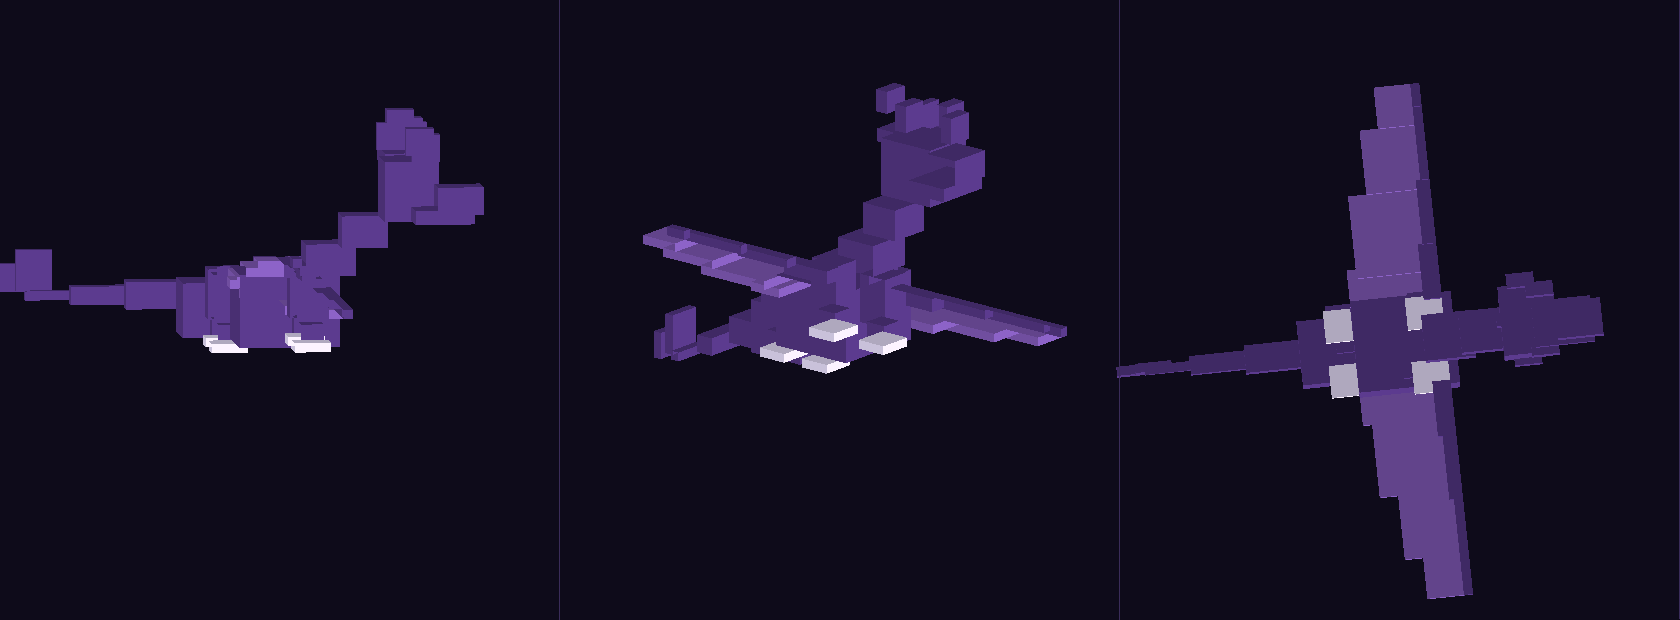
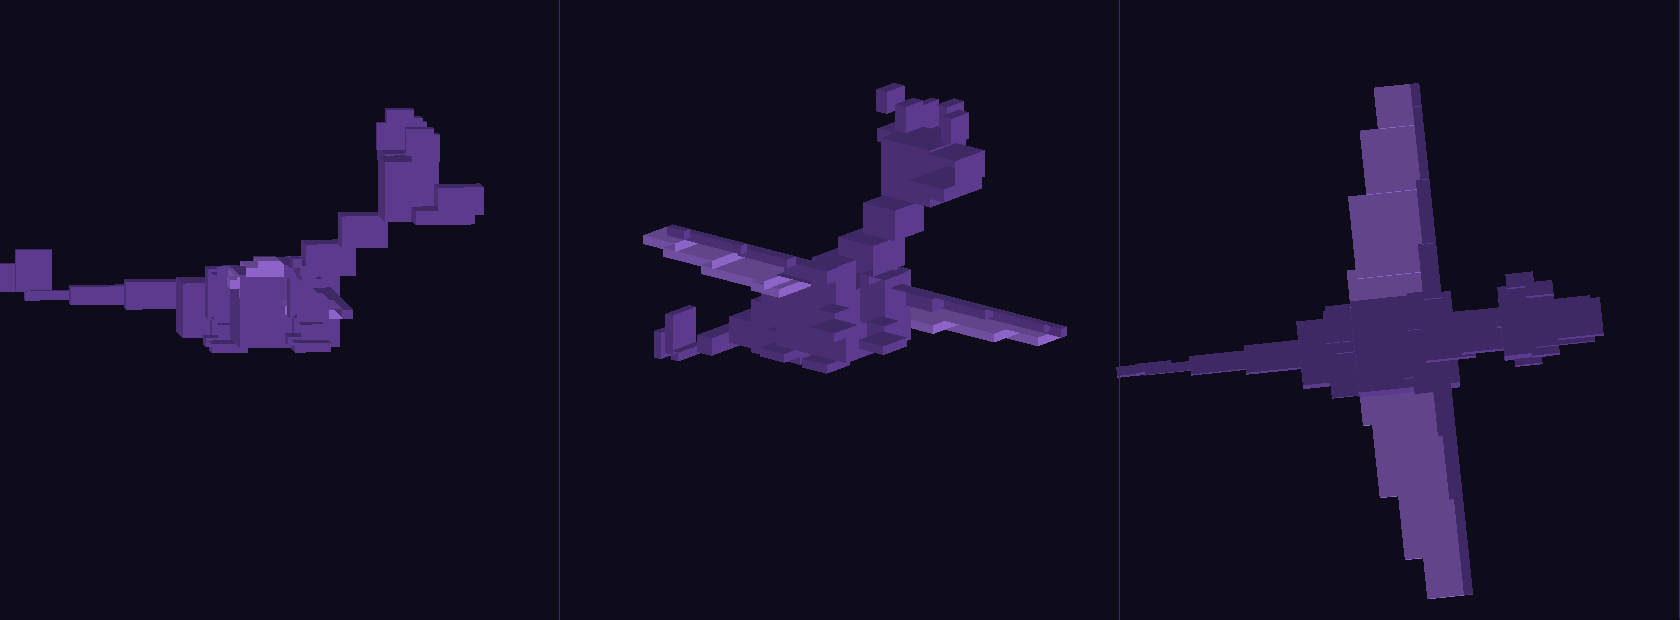
Docs: alpha.8 GeckoLib requirement, Loom 1.10.5 toolchain, verification §0e

diff --git a/README.md b/README.md
@@ -24,14 +24,22 @@ Assets:   48 generated textures · 65 block/item models · 45 data files
 
 ## Download & play
 
-1. Download **[aetherius-1.0.0-alpha.6.jar](https://github.com/Antoniscool123/Fabric-mod/releases/download/v1.0.0-alpha.6/aetherius-1.0.0-alpha.6.jar)**
-   (plus [`SHA256SUMS.txt`](https://github.com/Antoniscool123/Fabric-mod/releases/download/v1.0.0-alpha.6/SHA256SUMS.txt)).
+1. Download **[aetherius-1.0.0-alpha.8.jar](https://github.com/Antoniscool123/Fabric-mod/releases/download/v1.0.0-alpha.8/aetherius-1.0.0-alpha.8.jar)**
+   (plus [`SHA256SUMS.txt`](https://github.com/Antoniscool123/Fabric-mod/releases/download/v1.0.0-alpha.8/SHA256SUMS.txt)).
 2. Install **Fabric Loader 0.15.11+** for Minecraft **1.20.1**.
-3. Drop the jar **and** [Fabric API 0.92.2+1.20.1](https://modrinth.com/mod/fabric-api) into `.minecraft/mods`.
+3. Drop the jar, [Fabric API 0.92.2+1.20.1](https://modrinth.com/mod/fabric-api) **and**
+   [GeckoLib 4.8.4+1.20.1](https://modrinth.com/mod/geckolib/versions?g=1.20.1&loader=fabric)
+   into `.minecraft/mods`.
 4. Launch, create a world, and press **K** to open the Chronicle.
 
+   > **GeckoLib is required now.** From `alpha.8` the Nox'Thal model and its animations are
+   > GeckoLib assets (`assets/aetherius/geo/entity/nox_thal.geo.json` +
+   > `animations/entity/nox_thal.animation.json`), so the game refuses to load without it.
+   > The exact file that was used for testing is
+   > `geckolib-fabric-1.20.1-4.8.4.jar`; any 4.8.x for 1.20.1 works (`depends` says `>=4.8.0`).
+
 The jar is produced by GitHub Actions (`.github/workflows/build.yml`) on every tag:
-JDK 17 → Gradle 8.6 → Loom 1.5.8 → `compileJava` + `build` → attached to the release.
+JDK 17 → Gradle 8.14 → Loom 1.10.5 → `compileJava` + `build` → attached to the release.
 
 > **Alpha caveat:** the mod launches and loads a world on Fabric 1.20.1 (log in
 > `docs/VERIFICATION.md` §0b/§0c), but the story has not been played end-to-end yet.
@@ -57,7 +65,7 @@ JDK 17 → Gradle 8.6 → Loom 1.5.8 → `compileJava` + `build` → attached to
 
 ### Optional companion mods
 
-Aetherius is self-sufficient: it needs **Fabric API only**. These are optional quality-of-life
+Aetherius needs **Fabric API and GeckoLib only**. These are optional quality-of-life
 additions — nothing breaks if you skip them, and none of them are required for any feature.
 
 | Mod | Why you might want it |
@@ -97,7 +105,7 @@ Details and version pins: [`docs/OPTIONAL_MODS.md`](docs/OPTIONAL_MODS.md).
 | Registries, mixins, networking, commands | implemented |
 | Datapack content (dimension, biomes, loot, recipes, tags) | implemented |
 | Assets (textures, models, lang) | generated / placeholder-quality; audio is vanilla |
-| Compilation & packaging | **verified in CI** — JDK 17 / Gradle 8.6 / Loom 1.5.8, `compileJava` + `build` green, jar released |
+| Compilation & packaging | **verified in CI** — JDK 17 / Gradle 8.14 / Loom 1.10.5, `compileJava` + `build` green, jar released |
 | Runtime (launch) | **verified** — client boots, all 4 mixins apply, `[Aetherius] Initialised in 205 ms` |
 | Runtime (world load) | first attempt crashed on a biome JSON bug (fixed in `alpha.4`, see `docs/VERIFICATION.md` §0b) |
 | Gameplay balance | **not yet verified** |
@@ -110,23 +118,23 @@ not cover.
 
 ## Install & build
 
-Requirements: **JDK 17**, Gradle 8.6+ (Loom 1.5 rejects older Gradle), and the Fabric
+Requirements: **JDK 17**, Gradle 8.14+ (Loom 1.10 rejects older Gradle), and the Fabric
 toolchain that Loom downloads.
 
 ```bash
 # one-time: the wrapper JAR is a binary and is not committed
-gradle wrapper --gradle-version 8.6
+gradle wrapper --gradle-version 8.14
 
 ./gradlew build          # jar lands in build/libs/aetherius-1.0.0-alpha.jar
 ./gradlew runClient      # dev client
 ./gradlew runServer      # dev server
 ```
 
-Then drop the jar in `.minecraft/mods` alongside **Fabric Loader 0.15.11+** and
-**Fabric API 0.92.2+1.20.1**.
+Then drop the jar in `.minecraft/mods` alongside **Fabric Loader 0.15.11+**,
+**Fabric API 0.92.2+1.20.1** and **GeckoLib 4.8.4+1.20.1**.
 
 Gradle properties (`gradle.properties`) pin MC 1.20.1, Yarn `1.20.1+build.10`,
-Loader `0.15.11`, Fabric API `0.92.2+1.20.1`, Java 17, group `com.aetherius`.
+Loader `0.15.11`, Fabric API `0.92.2+1.20.1`, GeckoLib `4.8.4`, Java 17, group `com.aetherius`.
 
 ## The story in one paragraph
 
@@ -315,7 +323,7 @@ The asset pipeline is pure Python (no Pillow, no external downloads):
 | `tools/check_chronicle.py` | quest flags, objective classes, rune constants resolve |
 | `tools/check_lang.py` | translation keys used in Java exist in `en_us.json` |
 | `tools/check_data.py` | biome/dimension/model/recipe JSON shapes — encodes the bugs found at first launch |
-| `tools/preview_model.py` | rasterises the Nox'Thal cuboids to `docs/img/nox_thal_model.png` — catches broken pivots without launching the game |
+| `tools/preview_model.py` | rasterises the GeckoLib `nox_thal.geo.json` (and any of its animations) to `docs/img/nox_thal_model.png` — catches broken pivots without launching the game |
 
 Run them all:
 

diff --git a/docs/VERIFICATION.md b/docs/VERIFICATION.md
@@ -10,10 +10,10 @@ This file records exactly what is checked, how, and what remains unverified.
 |---|---|
 | Workflow | `.github/workflows/build.yml` |
 | JDK | Temurin 17 |
-| Gradle | 8.6 (Loom 1.5 requires ≥ 8.3) |
+| Gradle | 8.14 (Loom 1.10 requires ≥ 8.11) |
 | Loom / Yarn | 1.5.8 / 1.20.1+build.10 |
 | Tasks | `compileJava` → `build` (remapJar, sourcesJar) |
-| Result | green; `aetherius-1.0.0-alpha.6.jar` + `-sources.jar` + `SHA256SUMS.txt` on the release |
+| Result | green; `aetherius-1.0.0-alpha.8.jar` + `-sources.jar` + `SHA256SUMS.txt` on the release |
 | Errors left | 0 (`-Xmaxerrs 500`, so nothing is hidden behind the 100-error default) |
 
 The compile run also regenerates every asset and datapack file and re-runs the static
@@ -124,6 +124,51 @@ brow, jaw, snout, crest and swept horns, four-bone wings with four membrane pane
 a three-segment tail with a vertical fin, and four two-bone legs that land exactly on the y = 24
 ground plane. Renderer scale is now 1.0 (the model is authored at true size), shadow radius 2.2.
 
+## 0e. `1.0.0-alpha.8` — GeckoLib migration and the Loom trap
+
+`alpha.7` fixed the codec crash and **compiled green in CI**, so the first attempt at the GeckoLib
+migration (`5a58c33`) was expected to be a compile-only change. It failed with a misleading error:
+
+```
+ShatteredSkyChunkGenerator.java:41: error: ShatteredSkyChunkGenerator is not abstract and does not
+override abstract method getColumnSample(int,int,HeightLimitView,NoiseConfig) in ChunkGenerator
+```
+
+The method was in fact implemented with exactly the signature `javap` reports for the mapped
+Minecraft jar, so the message was collateral. Reading the whole Gradle log (not just `error:` lines)
+gave the real cause:
+
+```
+Caused by: java.lang.IllegalStateException:
+  Mod was built with a newer version of Loom (1.10.5), you are using Loom (1.5.8)
+```
+
+GeckoLib 4.8.4 is published with Loom 1.10.5, and Loom refuses to remap a mod built with a **newer**
+Loom than the project's own. With the GeckoLib jar unreachable, Loom left the whole
+`modImplementation` classpath half-resolved and javac reported a bogus abstract-method error.
+
+Fix: `fabric-loom` `1.5-SNAPSHOT` → **`1.10.5`**, Gradle **8.14** (wrapper, CI and README), and the
+Cloudsmith repository restricted with `exclusiveContent { filter { includeGroup
+'software.bernie.geckolib' } }` so it can never serve a Minecraft/mapping artifact.
+
+CI after the bump (`97cd52f`): `compileJava` exit 0, jar assembled, jar gate verified, checksums
+written — **the first green build that contains GeckoLib code**.
+
+> **Lesson recorded:** a failure whose message points at the *last* good file is usually a
+> dependency-resolution failure. `grep "Caused by"` on the full log beats trusting the first
+> `error:` line.
+
+### What is still unverified in alpha.8
+
+GeckoLib compiles, but nothing has *run* yet:
+
+- `getTick(Object)`, the `AnimationController` transition length and the `RawAnimation` names are
+  compile-checked only; a wrong animation id would silently play nothing.
+- The `.geo.json` is verified by `tools/preview_model.py` (bones, pivots, silhouette, wing
+  symmetry) and by `tools/check_data.py` (every animated bone exists in the model), not by the game.
+- The `attack` triggerable animation is wired to the cosmic-breath attack; whether it fires and
+  blends back into flight was not observed.
+
 ## 1. What is verified (mechanically)
 
 | Check | Tool | Result |
@@ -169,7 +214,7 @@ When you do get a toolchain, run in this order and fix in this order — it fron
 failures that cascade:
 
 ```bash
-gradle wrapper --gradle-version 8.6   # binary wrapper JAR is not committed
+gradle wrapper --gradle-version 8.14   # binary wrapper JAR is not committed
 ./gradlew compileJava 2>&1 | tee build.log
 ```
 

diff --git a/CHANGELOG.md b/CHANGELOG.md
@@ -4,6 +4,51 @@ All notable changes to Aetherius: Echoes of the Shattered Sky.
 The mod is in alpha: versions are `1.0.0-alpha.N`, each one a playable checkpoint rather than a
 finished product. Jars are attached to the matching GitHub release.
 
+## [1.0.0-alpha.8] — 2026-11-11
+
+### Changed — the Nox'Thal is a GeckoLib model now
+
+The boss is no longer ~600 lines of hand-written cuboids. It is a Blockbench-style data model plus
+an animation file, which is what the user asked for after three passes of the Java model still not
+looking right in game.
+
+| Piece | Path |
+|---|---|
+| Model — 10 bones, 50 cubes, feet at y = 0, 3.19 blocks tall, 7-block wingspan | `assets/aetherius/geo/entity/nox_thal.geo.json` |
+| Animations — `flight`, `heavy_flight`, `grounded`, `supernova`, `attack` | `assets/aetherius/animations/entity/nox_thal.animation.json` |
+| `DefaultedEntityGeoModel` (head bone `head`) + `GeoEntityRenderer` (shadow 2.2, phase-3 roll in `preRender`) | `client/render/NoxThalGeoModel`, `NoxThalRenderer` |
+| `GeoEntity` implementation: `RawAnimation`s, instance cache, controller `"main"`, `triggerableAnim("attack", …)` fired by the cosmic breath | `entity/NoxThalEntity` |
+
+`NoxThalModel` (the `EntityModel` version) and its `EntityModelLayerRegistry` entry are gone.
+
+### Breaking — GeckoLib 4.8.4+ is now a hard dependency
+
+`fabric.mod.json` moved `geckolib` from `suggests` to `depends` (`">=4.8.0"`). A profile without it
+now fails with the normal Fabric "missing dependency" screen instead of crashing inside the
+renderer. **Install `geckolib-fabric-1.20.1-4.8.4.jar` (or newer 4.8.x) for 1.20.1.**
+
+### Fixed — the toolchain
+
+GeckoLib 4.8.4 is built with Fabric Loom 1.10.5, and Loom refuses to remap a mod built with a newer
+Loom than the project uses. The build failed with a misleading `ChunkGenerator` error until the log
+was read to the end (`Mod was built with a newer version of Loom (1.10.5), you are using Loom
+(1.5.8)`). Now: **Loom 1.10.5 + Gradle 8.14**, and the GeckoLib repository is restricted to its own
+group with `exclusiveContent`, so it can no longer shadow a Minecraft or mapping artifact.
+
+### Tooling
+
+- `tools/preview_model.py` was rewritten for the data model: it rasterises any `.geo.json` (with any
+  animation at any timestamp) to a PNG — `docs/img/nox_thal_model.png`, `docs/img/nox_thal_flight.png`.
+- `tools/check_data.py` gained `check_geo` and `check_animation`: every animated bone must exist in
+  the model, every keyframe must be a valid channel shape, and the geometry must carry a real uv
+  layout. 112 JSON files now validate before every build.
+- CI's jar gate also asserts that both GeckoLib assets are inside the release jar.
+
+### Still unverified
+
+GeckoLib compiles and packs, but no world has been loaded with `alpha.8` yet — see
+`docs/VERIFICATION.md` §0e.
+
 ## [1.0.0-alpha.7] — 2026-11-11
 
 ### Fixed — world creation crash (`Failed to load registries`)

diff --git a/docs/OPTIONAL_MODS.md b/docs/OPTIONAL_MODS.md
@@ -30,15 +30,29 @@ block loading.
 
 ## The animation-library question (GeckoLib)
 
-`GeckoLib` / `PlayerAnimator` would let the boss be authored in Blockbench with real per-bone
-rotation and smooth animation curves. That would look better than hand-placed boxes, but it makes
-GeckoLib a **hard dependency**: the jar would refuse to load without it, which breaks the "works
-with Fabric API only" rule this mod follows.
+**Decided in `alpha.8`: GeckoLib is now required.**
 
-If you want that trade, say so and it becomes a deliberate decision for a later release — with
-GeckoLib added to `depends` and a Blockbench model replacing `NoxThalModel`. What exists today is a
-vanilla `EntityModel` (no extra dependency) that is verified offline with
-`tools/preview_model.py` → `docs/img/nox_thal_model.png`.
+The trade was made deliberately — the user asked for it after the hand-built `EntityModel` kept
+looking wrong in game. `fabric.mod.json` now lists `"geckolib": ">=4.8.0"` under `depends`, so a
+profile without GeckoLib fails at load time with a clear missing-dependency message instead of a
+crash somewhere in the renderer.
+
+What that bought:
+
+| Before (`alpha.7`) | Now (`alpha.8`) |
+|---|---|
+| `NoxThalModel` — 50 cuboids created in Java, per-part pivots in *part space* | `assets/aetherius/geo/entity/nox_thal.geo.json` — 10 bones, 50 cubes, absolute model-space pivots, editable in Blockbench |
+| Movement faked by rotating parts in a `setAngles` branch | `assets/aetherius/animations/entity/nox_thal.animation.json` — `flight`, `heavy_flight`, `grounded`, `supernova`, `attack`, driven by an `AnimationController` |
+| Phase 3 roll needed a manual `PoseStack.rotate` | still a `PoseStack` roll in `NoxThalRenderer#preRender`, on top of GeckoLib's pose |
+
+`tools/preview_model.py` was rewritten for the data model: it rasterises the `.geo.json` (and any
+animation, at any time) into `docs/img/nox_thal_model.png` /
+`docs/img/nox_thal_flight.png`, so pivot mistakes are caught before a release.
+
+**Toolchain consequence:** GeckoLib 4.8.4 is built with Fabric Loom 1.10.5, and Loom refuses to
+remap a mod built with a *newer* Loom than itself. The project therefore moved from Loom 1.5.8 /
+Gradle 8.6 to **Loom 1.10.5 / Gradle 8.14**. Keep these two numbers in step if GeckoLib is ever
+updated.
 
 ## What Aetherius explicitly does *not* need
 

diff --git a/docs/ARCHITECTURE.md b/docs/ARCHITECTURE.md
@@ -238,8 +238,9 @@ no client mixins (the client overlay uses the HUD callback instead).
   notch marks at 67%/34%, and applies the Supernova blackout tint while the darkness timer
   runs.
 - **Entities** — `AetherMobRenderer` (generic scaled humanoid), `AetherMantaModel` +
-  `AetherMantaRenderer` (wings, rider offset), `NoxThalModel` + `NoxThalRenderer` (dragon
-  body with per-phase glow), `GravityAnchorRenderer` (crystal block + rotating ring).
+  `AetherMantaRenderer` (wings, rider offset), `NoxThalGeoModel` + `NoxThalRenderer`
+  (GeckoLib `GeoEntityRenderer`, per-phase glow baked into the texture), `GravityAnchorRenderer`
+  (crystal block + rotating ring).
 - **Chronicle** — plain `Screen` with a tab strip (4 chapters), a quest list column, a detail
   pane (objectives with progress bars, rewards, lore), and a footer showing act completion.
   It is read-mostly by design; mutations go through `ChronicleActionC2SPacket`.
